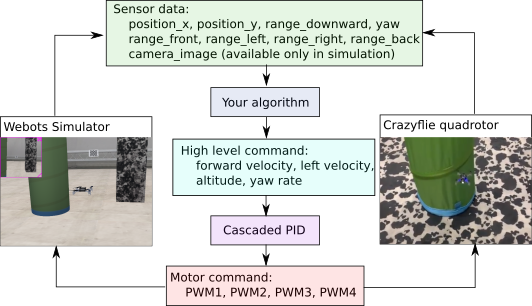
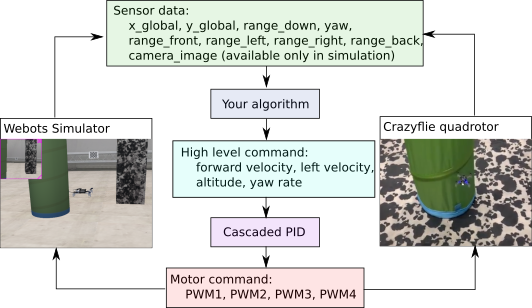
Added comments to my_control for sensor variable names

diff --git a/controllers/main/my_control.py b/controllers/main/my_control.py
@@ -11,6 +11,32 @@ timer = None
 startpos = None
 timer_done = None
 
+# All available ground truth measurements can be accessed by calling sensor_data[item], where "item" can take the following values:
+# "x_global": Global X position
+# "y_global": Global Y position
+# "z_global": Global Z position
+# "roll": Roll angle (rad)
+# "pitch": Pitch angle (rad)
+# "yaw": Yaw angle (rad)
+# "v_x": Global X velocity
+# "v_y": Global Y velocity
+# "v_z": Global Z velocity
+# "v_forward": Forward velocity (body frame)
+# "v_left": Leftward velocity (body frame)
+# "v_down": Downward velocity (body frame)
+# "ax_global": Global X acceleration
+# "ay_global": Global Y acceleration
+# "az_global": Global Z acceleration
+# "range_front": Front range finder distance
+# "range_down": Donward range finder distance
+# "range_left": Leftward range finder distance 
+# "range_back": Backward range finder distance
+# "range_right": Rightward range finder distance
+# "range_down": Downward range finder distance
+# "rate_roll": Roll rate (rad/s)
+# "rate_pitch": Pitch rate (rad/s)
+# "rate_yaw": Yaw rate (rad/s)
+
 # This is the main function where you will implement your control algorithm
 def get_command(sensor_data, camera_data, dt):
     global on_ground, startpos
